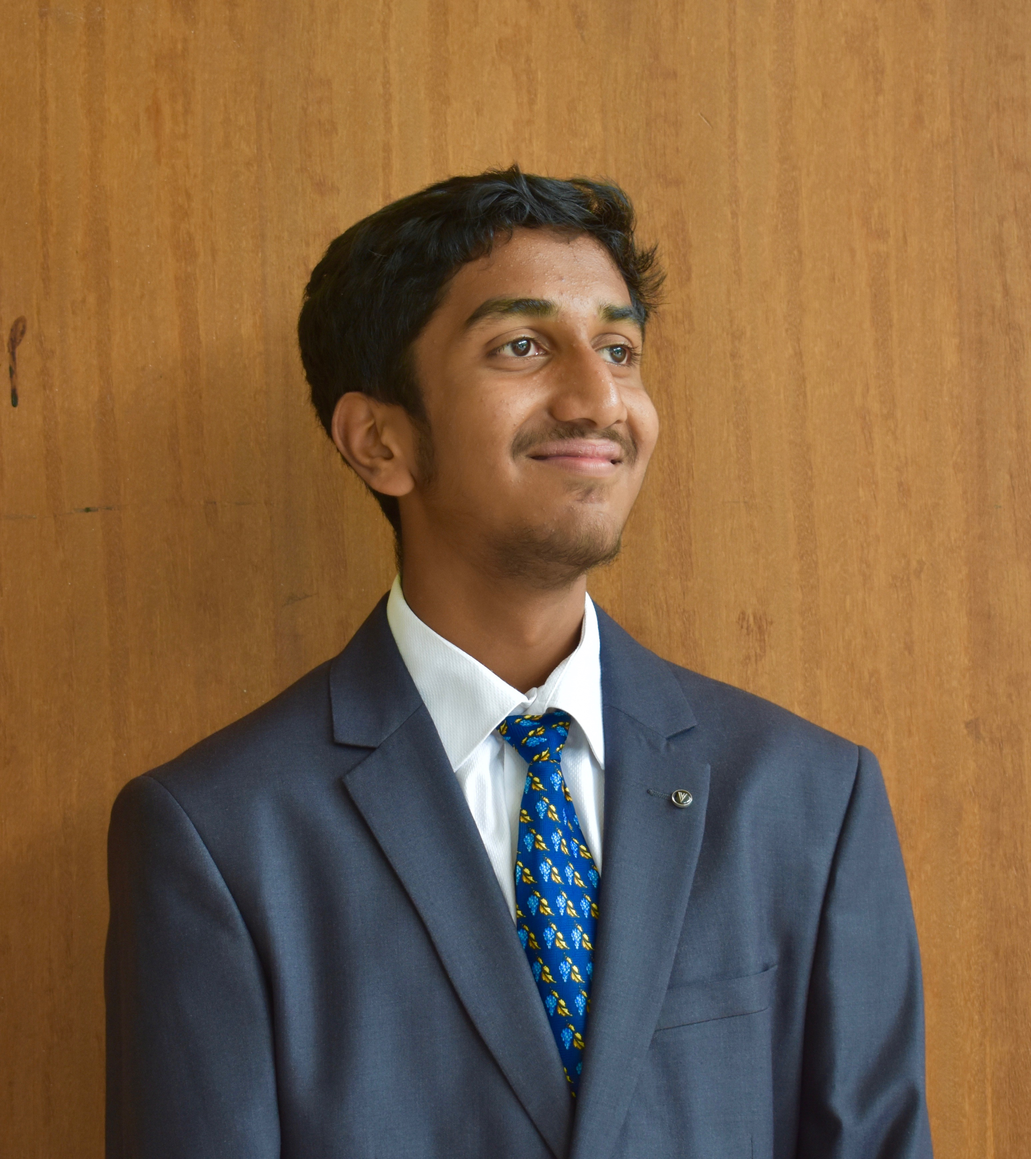
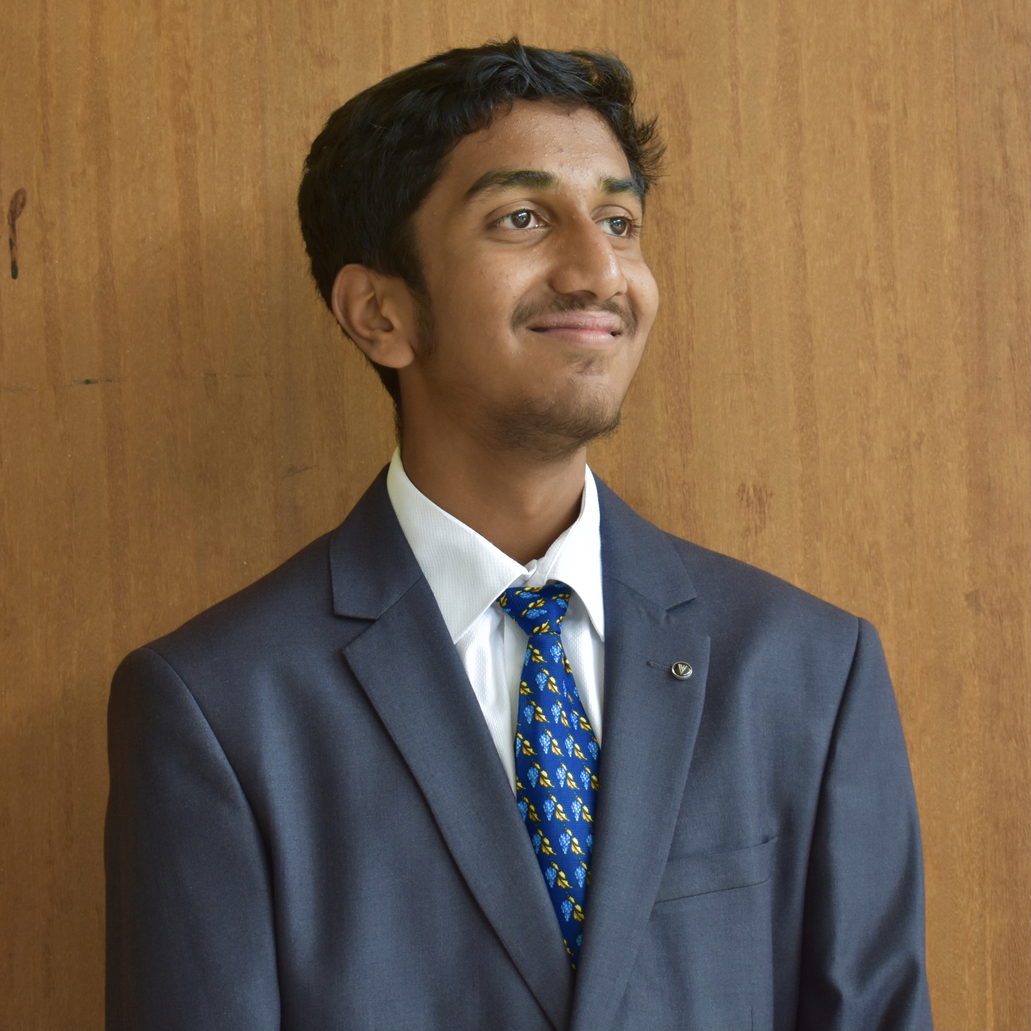
Added Muhsin to OC

diff --git a/Secretariat/index.html b/Secretariat/index.html
@@ -522,14 +522,20 @@ Roles:
         <h6>Organizing committee</h6>
       </center>
     </div>
-	<div class="item">
+	  <div class="item">
       <center>
         <img height="300px" src="Images/SEC/Asmita.jpeg" alt="">
         <h5>Asmita Kiran</h5>
         <h6>Organizing committee</h6>
       </center>
     </div>
-
+    <div class="item">
+      <center>
+        <img height="300px" src="Archives/2019/Images/SEC/Muhsin.jpeg" alt="">
+        <h5>Mushin Mohamed</h5>
+        <h6>Organizing committee</h6>
+      </center>
+    </div>
   </div>
 </div>
 
